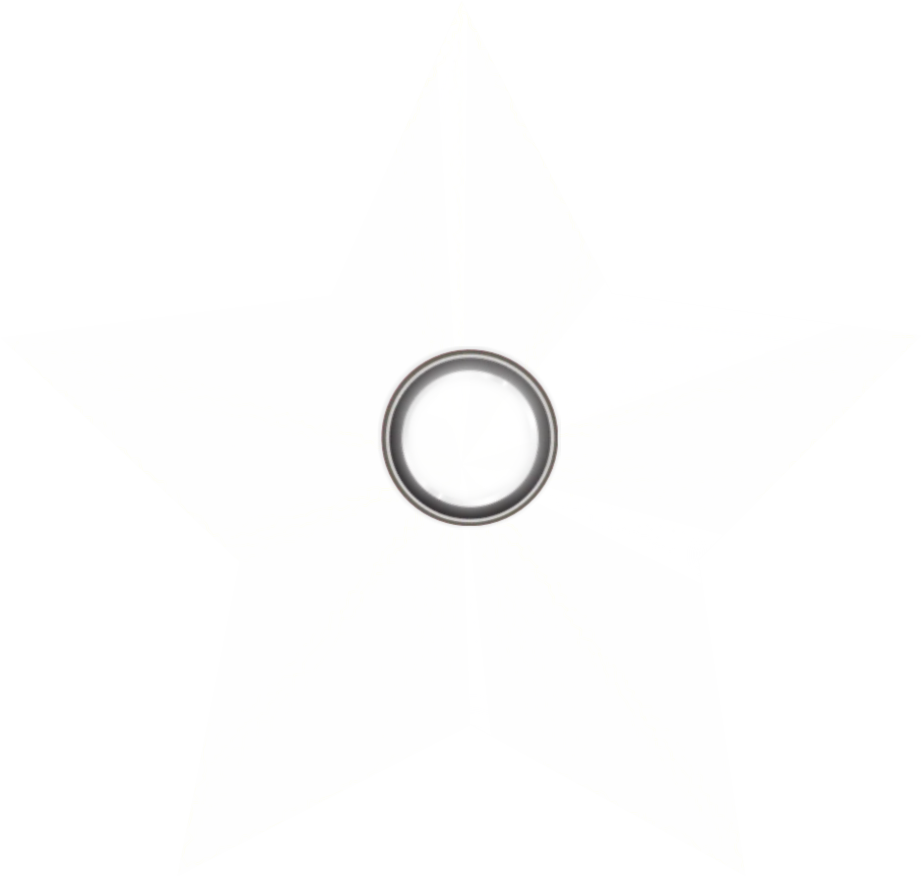
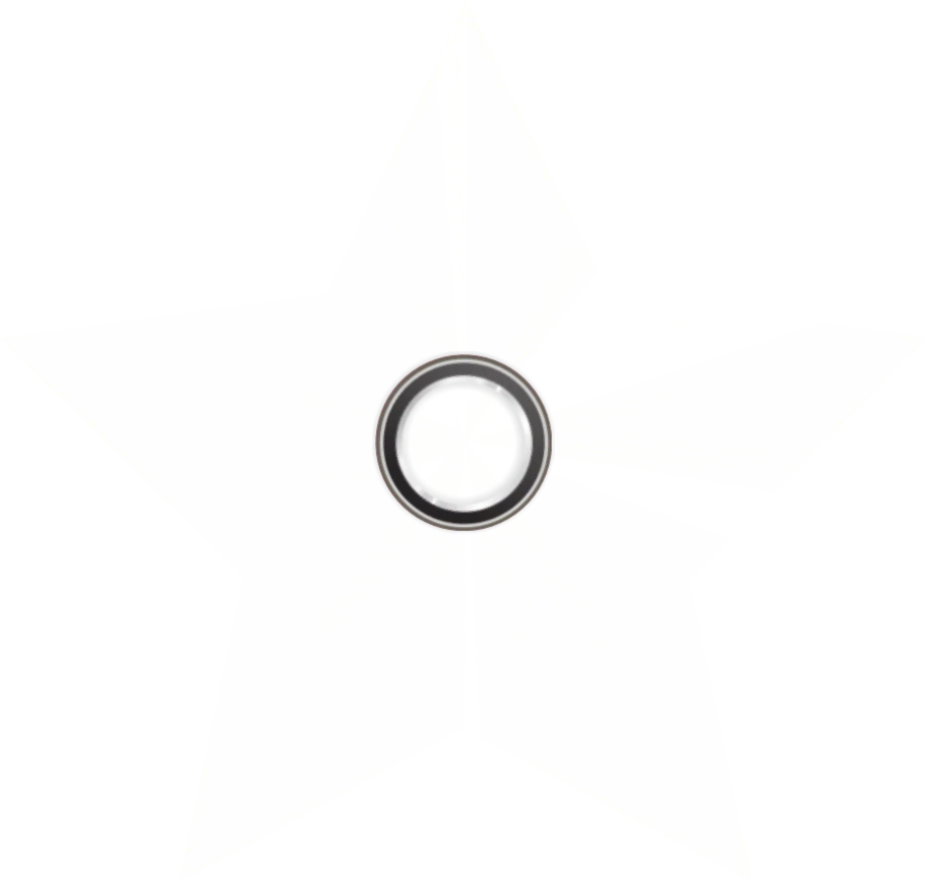
feat: loading pages

Changed region(s): [[0.3948, 0.4007, 0.6074, 0.6164]]

diff --git a/src/app/ui/main-wrapper.tsx b/src/app/ui/main-wrapper.tsx
@@ -1,13 +1,35 @@
+import { useState, useEffect } from "react";
 import { Outlet } from "react-router-dom";
 import { Container } from "./container";
+import FirstLoadingImg from "../../assets/loading-page-1.png";
+import SecondLoadingImg from "../../assets/loading-page-2.png";
 
 export const MainWrapper = () => {
-  console.log(window.Telegram.WebApp);
+  const [showSplash, setShowSplash] = useState(true);
+  const [currentImage, setCurrentImage] = useState(FirstLoadingImg);
+
+  useEffect(() => {
+    const imageTimer = setTimeout(() => {
+      setCurrentImage(SecondLoadingImg);
+    }, 3000); // Переключить изображение через 1.5 секунды
+
+    const splashTimer = setTimeout(() => {
+      setShowSplash(false);
+    }, 7000); // Скрыть картинку через 3 секунды
+
+    return () => {
+      clearTimeout(imageTimer);
+      clearTimeout(splashTimer);
+    };
+  }, []);
 
   return (
-    <div
-      className={`w-full h-svh mx-auto bg-[url('/public/main-bg.png')] bg-no-repeat bg-center bg-cover overflow-hidden`}
-    >
+    <div className="w-full h-screen mx-auto bg-[url('/public/main-bg.png')] bg-no-repeat bg-center bg-cover overflow-hidden">
+      {showSplash && (
+        <div className="fixed inset-0 z-50 flex items-center justify-center bg-white">
+          <img src={currentImage} alt="Splash" className="w-full h-full object-cover" />
+        </div>
+      )}
       <Container>
         <Outlet />
       </Container>
